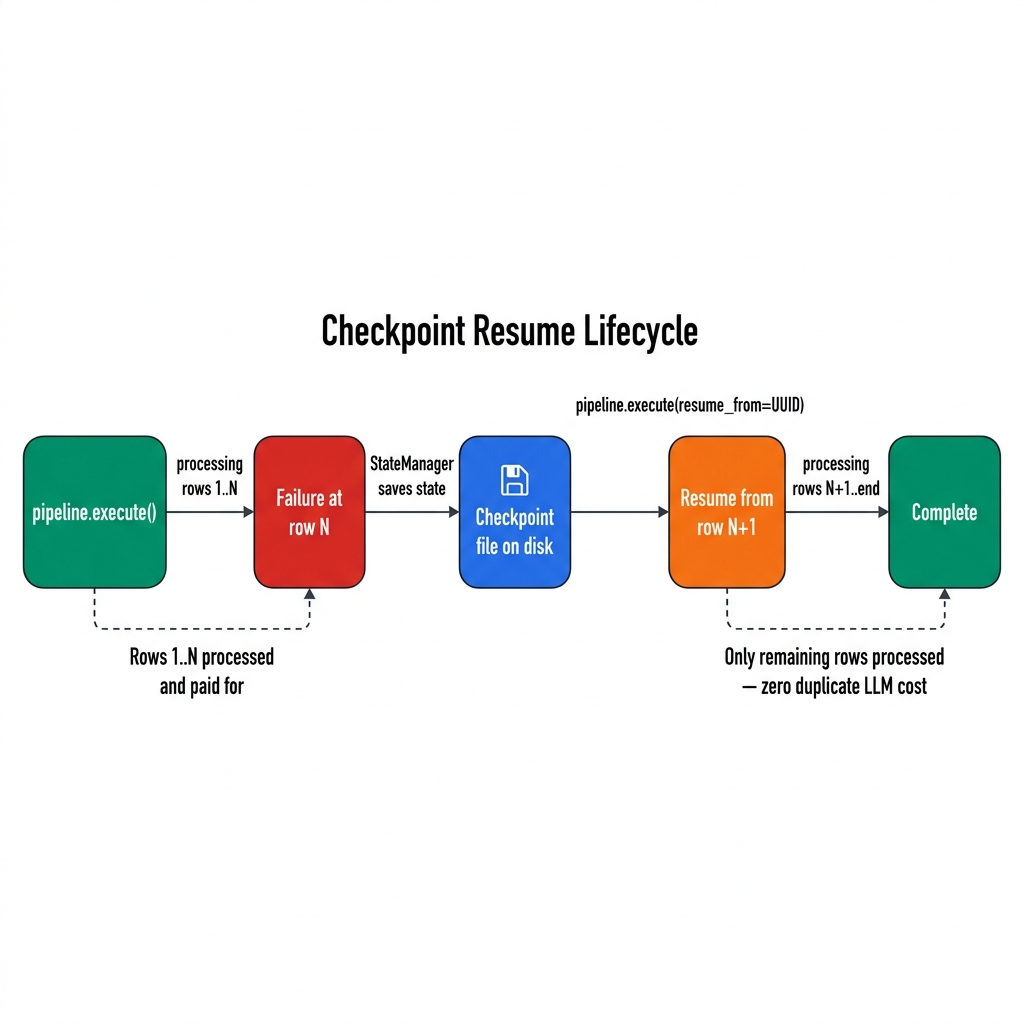
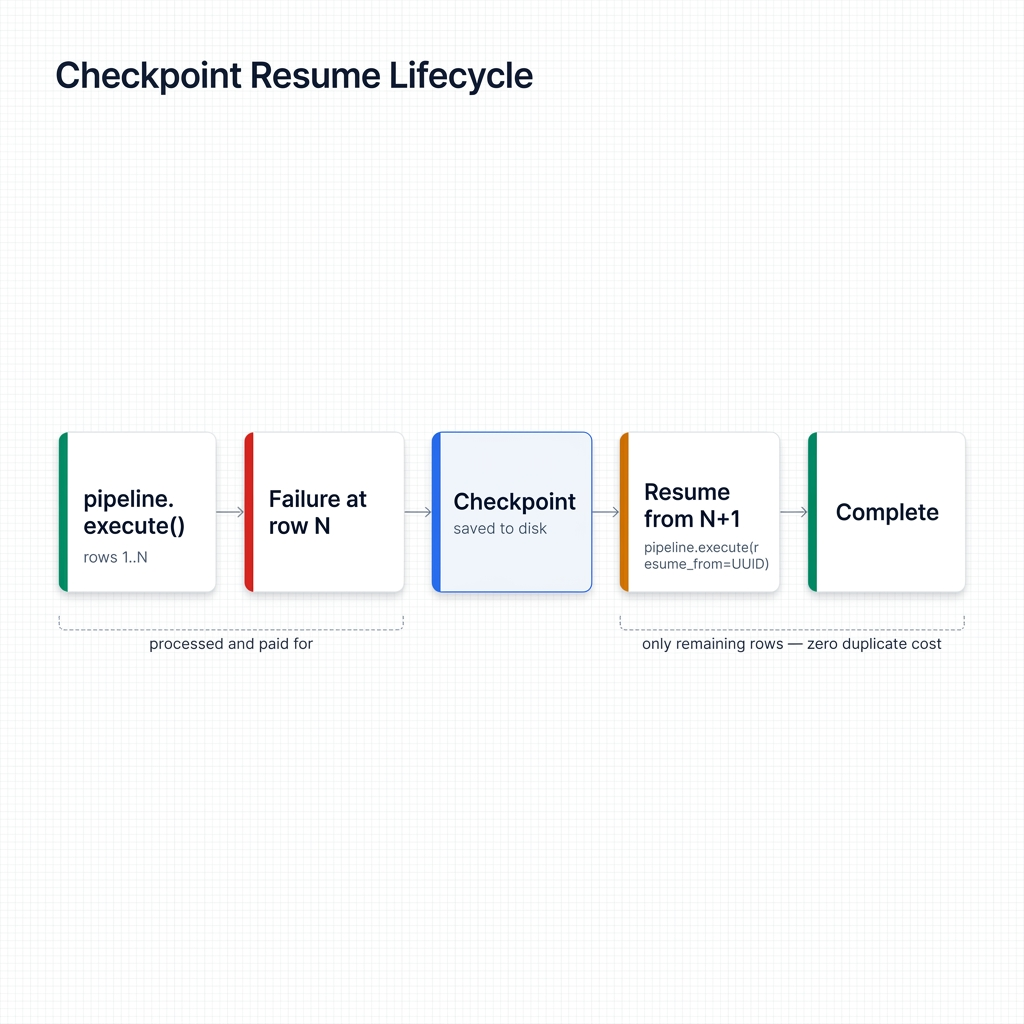
docs: reorganize navigation for clarity (#118)
* docs: upgrade documentation diagrams to enterprise quality

Upgraded 16 architecture and pipeline workflow diagrams to a cohesive, high-quality design language.

* docs: reorganize GitBook navigation into logical groups

Restructured SUMMARY.md from 5 flat sections into 7 topic-based groups:
- Getting Started (install, quickstart, concepts)
- Processing (execution, batch, multi-column, pipelines, structured output)
- Quality & Safety (RAG, context store, error handling, checkpointing)
- Performance (cost, caching, routing)
- Operations (CLI, observability, Azure)
- Providers (6 LLM providers)
- Community (contributing)

---------

diff --git a/docs/SUMMARY.md b/docs/SUMMARY.md
@@ -1,4 +1,4 @@
-# Summary
+# Table of contents
 
 ## Getting Started
 
@@ -6,26 +6,32 @@
 * [Quickstart](getting-started/quickstart.md)
 * [Core Concepts](getting-started/core-concepts.md)
 
-## Guides
+## Processing
 
 * [Execution Modes](guides/execution-modes.md)
-* [Structured Output](guides/structured-output.md)
-* [Cost Control](guides/cost-control.md)
 * [Batch Processing](guides/batch-processing.md)
 * [Multi-Column Processing](guides/multi-column.md)
 * [Pipeline Composition](guides/pipeline-composition.md)
-* [Observability](guides/observability_profiling.md)
-* [Azure Managed Identity](guides/azure-managed-identity.md)
-* [Caching](guides/caching.md)
-* [Routing & Load Balancing](guides/routing.md)
-* [Checkpointing & Recovery](guides/checkpointing.md)
-* [Error Handling](guides/error-handling.md)
-* [Command-Line Interface](guides/cli.md)
+* [Structured Output](guides/structured-output.md)
 
-## Knowledge & Grounding
+## Quality & Safety
 
 * [Knowledge Base / RAG](guides/knowledge-base-rag.md)
 * [Context Store & Anti-Hallucination](guides/context-store.md)
+* [Error Handling](guides/error-handling.md)
+* [Checkpointing & Recovery](guides/checkpointing.md)
+
+## Performance
+
+* [Cost Control](guides/cost-control.md)
+* [Caching & Rate Limiting](guides/caching.md)
+* [Routing & Load Balancing](guides/routing.md)
+
+## Operations
+
+* [CLI Reference](guides/cli.md)
+* [Observability](guides/observability_profiling.md)
+* [Azure Managed Identity](guides/azure-managed-identity.md)
 
 ## Providers
 
